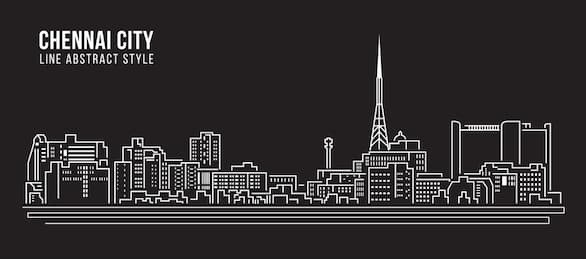
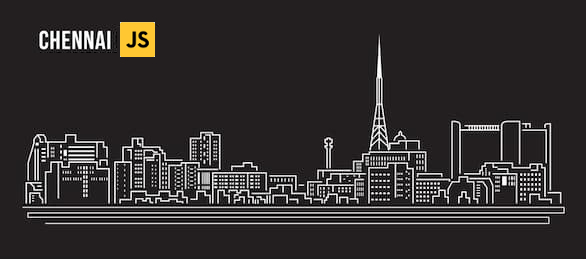
Replacing background image

Changed region(s): [[0.0614, 0.0618, 0.2765, 0.2471]]

diff --git a/README.md b/README.md
@@ -1,2 +1,5 @@
 # chennai-js.github.io
-chennai-js home page
+
+**Chennai** **JS** home page
+
+![](https://raw.githubusercontent.com/Rafi993/chennai-js.github.io/react-site/src/assets/chennai.jpg)
